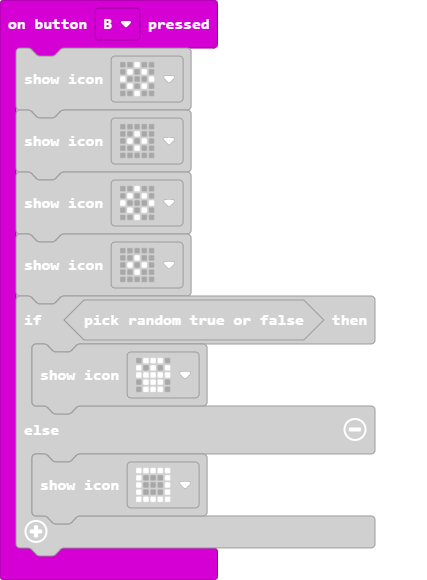
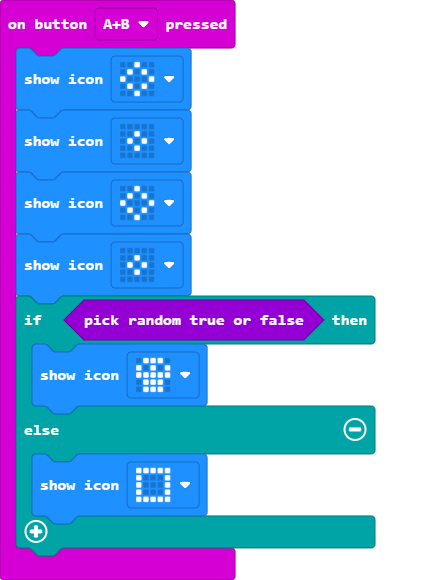
Update main.blocks, main.ts

diff --git a/main.ts b/main.ts
@@ -9,6 +9,17 @@ input.onButtonPressed(Button.A, function () {
         basic.showIcon(IconNames.Square)
     }
 })
+input.onButtonPressed(Button.AB, function () {
+    basic.showIcon(IconNames.Diamond)
+    basic.showIcon(IconNames.SmallDiamond)
+    basic.showIcon(IconNames.Diamond)
+    basic.showIcon(IconNames.SmallDiamond)
+    if (Math.randomBoolean()) {
+        basic.showIcon(IconNames.Skull)
+    } else {
+        basic.showIcon(IconNames.Square)
+    }
+})
 input.onButtonPressed(Button.B, function () {
     basic.showIcon(IconNames.Diamond)
     basic.showIcon(IconNames.SmallDiamond)
